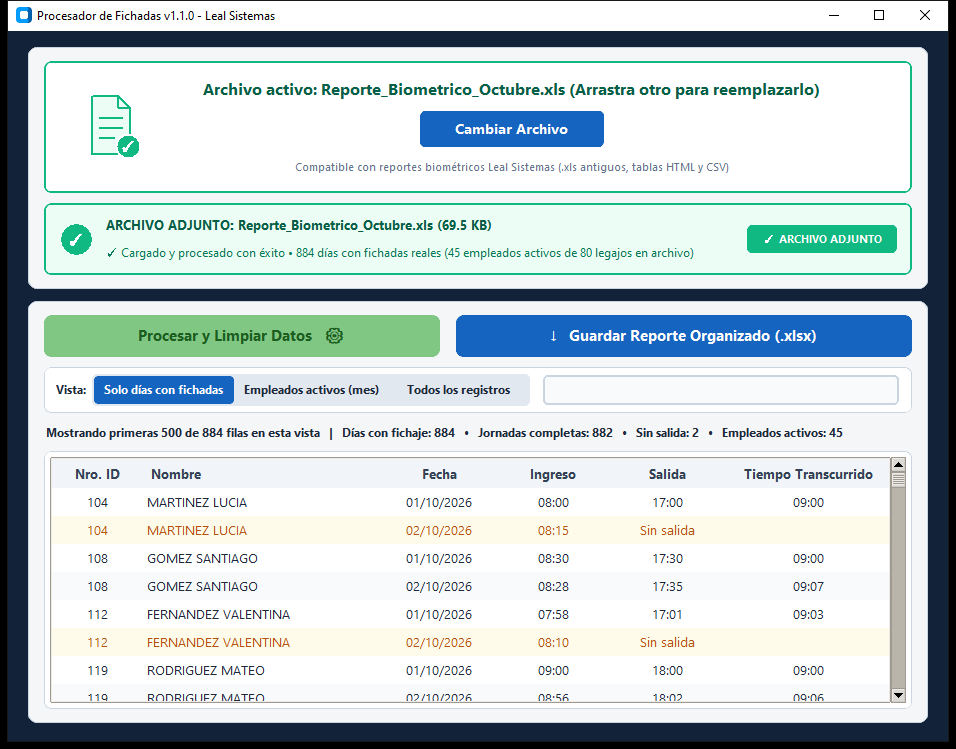
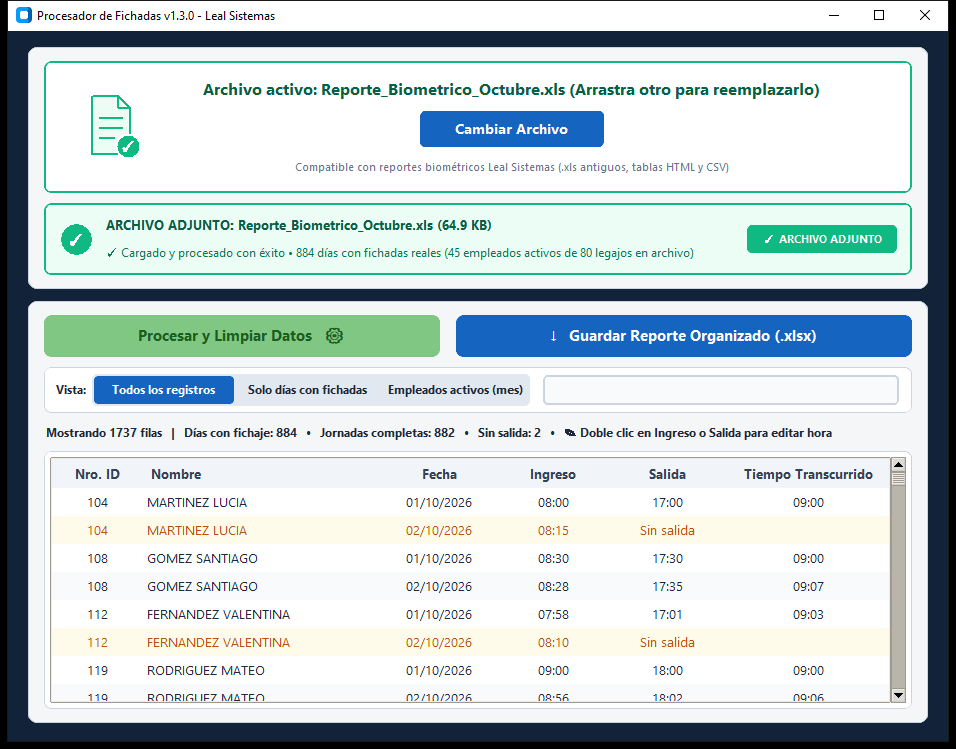
v1.3.0 - Actualizar portal web, captura v1.3.0 y lectura dinámica de versión

Changed region(s): [[0.1213, 0.4913, 0.8797, 0.5834], [0.455, 0.2764, 0.4854, 0.3071]]

diff --git a/docs/index.html b/docs/index.html
@@ -720,13 +720,13 @@
         <div class="hero-left">
           <div class="version-pill">
             <span class="version-dot"></span>
-            <span>Versión estable v<span id="lbl-version">1.2.1</span> • Portable</span>
+            <span>Versión estable v<span id="lbl-version">1.3.0</span> • Portable</span>
           </div>
 
           <h1 class="hero-title">Procesador de Fichadas para Windows</h1>
           <p class="hero-description">
-            Herramienta de escritorio para Recursos Humanos que normaliza los reportes crudos del reloj biométrico
-            Leal Sistemas, filtra legajos inactivos, detecta omisiones de salida y genera el libro Excel gerencial.
+            Herramienta de escritorio para Recursos Humanos que traduce el 100% de los reportes crudos del reloj biométrico
+            Leal Sistemas, permite editar horarios manualmente con doble clic y exporta un libro Excel con fórmulas de cálculo automático en vivo.
           </p>
 
           <!-- Bloque Cohesivo CTA + Metadatos + Callout SmartScreen -->
@@ -859,9 +859,9 @@
             <span class="step-badge-sq">03</span>
             <div class="step-connector-bar"></div>
           </div>
-          <h3 class="workflow-step-title">Filtrar y auditar en vivo</h3>
+          <h3 class="workflow-step-title">Editar y auditar en vivo</h3>
           <p class="workflow-step-desc">
-            Inspeccione las fichadas limpias en pantalla, alterne entre vistas de activos o filtre al instante por legajo o apellido.
+            Revise el 100% de los registros en su orden original o haga doble clic en <code>Ingreso</code> / <code>Salida</code> para cargar horas manuales con cálculo inmediato.
           </p>
         </article>
 
@@ -870,9 +870,9 @@
             <span class="step-badge-sq">04</span>
             <div class="step-connector-bar"></div>
           </div>
-          <h3 class="workflow-step-title">Exportar reporte .xlsx</h3>
+          <h3 class="workflow-step-title">Exportar Excel con fórmulas</h3>
           <p class="workflow-step-desc">
-            Genere el libro Excel final con encabezados inmovilizados, autofiltros activados y las 3 pestañas gerenciales listas.
+            Genere el libro <code>.xlsx</code> con fórmulas activas de cálculo automático, formato condicional inteligente y las 3 hojas listas para filtrar.
           </p>
         </article>
       </div>
@@ -904,11 +904,11 @@
           </div>
           <div class="sheet-card-body">
             <p class="sheet-desc">
-              Contiene exclusivamente los días con fichaje real depurando marcas repetidas, calculando la jornada neta e identificando omisiones de salida.
+              Conserva el 100% de los registros del archivo original en su mismo orden, con fórmulas nativas de Excel que recalculan el tiempo transcurrido al editar cualquier hora.
             </p>
             <ul class="sheet-keypoints">
-              <li><span class="bullet-dot">•</span>Cálculo exacto de jornada neta en formato <code>HH:MM</code></li>
-              <li><span class="bullet-dot amber">•</span>Resaltado automático de alertas <strong>Sin salida</strong></li>
+              <li><span class="bullet-dot">•</span>Fórmula automática en vivo de jornada neta <code>HH:MM</code></li>
+              <li><span class="bullet-dot amber">•</span>Formato condicional dinámico para alertas <strong>Sin salida</strong></li>
             </ul>
           </div>
         </article>
@@ -927,11 +927,11 @@
           </div>
           <div class="sheet-card-body">
             <p class="sheet-desc">
-              Tablero consolidado por cada empleado activo con la sumatoria mensual de días asistidos, jornadas completas, días incompletos y total de horas.
+              Totalizador de todos los legajos del archivo conectado mediante fórmulas dinámicas a la Hoja 1: si agrega una hora manual en la Hoja 1, el resumen se actualiza solo.
             </p>
             <ul class="sheet-keypoints">
-              <li><span class="bullet-dot">•</span>Sumatoria acumulada de horas mensuales y promedio diario</li>
-              <li><span class="bullet-dot">•</span>Conteo desglosado de días completos vs. marcas sin salida</li>
+              <li><span class="bullet-dot">•</span>Fórmulas <code>SUMAR.SI.CONJUNTO</code> de horas mensuales y promedio</li>
+              <li><span class="bullet-dot">•</span>Recálculo automático de jornadas completas vs. sin salida</li>
             </ul>
           </div>
         </article>
@@ -944,17 +944,17 @@
                 <line x1="3" y1="9" x2="21" y2="9"></line>
                 <line x1="9" y1="21" x2="9" y2="9"></line>
               </svg>
-              <h3 class="sheet-name">Planilla Mensual Activos</h3>
+              <h3 class="sheet-name">Solo Días con Fichaje</h3>
             </div>
             <span class="sheet-tab-badge">Hoja 3</span>
           </div>
           <div class="sheet-card-body">
             <p class="sheet-desc">
-              Calendario completo del período para el personal en actividad (incluyendo francos e inasistencias), descartando legajos dados de baja.
+              Vista auxiliar depurada únicamente con los días que registraron marcas biométricas en el período, manteniendo las fórmulas de cálculo de jornada.
             </p>
             <ul class="sheet-keypoints">
-              <li><span class="bullet-dot">•</span>Secuencia cronológica completa del mes por empleado activo</li>
-              <li><span class="bullet-dot">•</span>Exclusión automática de padrón histórico sin actividad</li>
+              <li><span class="bullet-dot">•</span>Lectura directa de asistencias sin filas en blanco</li>
+              <li><span class="bullet-dot">•</span>Celdas de ingreso y salida editables con recálculo</li>
             </ul>
           </div>
         </article>
@@ -990,13 +990,23 @@
     if (GITHUB_REPO !== "TU_USUARIO/TU_REPO") {
       btnDownload.href = `https://github.com/${GITHUB_REPO}/releases/latest/download/ProcesadorFichadas.exe`;
 
+      // 1. Leer siempre la versión más reciente directamente desde src/config.py en la rama main
+      fetch(`https://raw.githubusercontent.com/${GITHUB_REPO}/main/src/config.py?t=${Date.now()}`, { cache: "no-store" })
+        .then(res => res.ok ? res.text() : null)
+        .then(txt => {
+          if (!txt) return;
+          const m = txt.match(/APP_VERSION\s*=\s*["']([^"']+)["']/);
+          if (m && m[1]) {
+            lblVersion.textContent = m[1].trim().replace(/^v/i, "");
+          }
+        })
+        .catch(() => {});
+
+      // 2. Obtener el enlace del ejecutable y su peso en MB desde GitHub Releases
       fetch(`https://api.github.com/repos/${GITHUB_REPO}/releases/latest`)
         .then(res => res.ok ? res.json() : null)
         .then(data => {
           if (!data) return;
-          if (data.tag_name) {
-            lblVersion.textContent = data.tag_name.replace(/^v/i, "");
-          }
           if (Array.isArray(data.assets)) {
             const exeAsset = data.assets.find(a => a.name && a.name.toLowerCase().endsWith(".exe"));
             if (exeAsset) {
